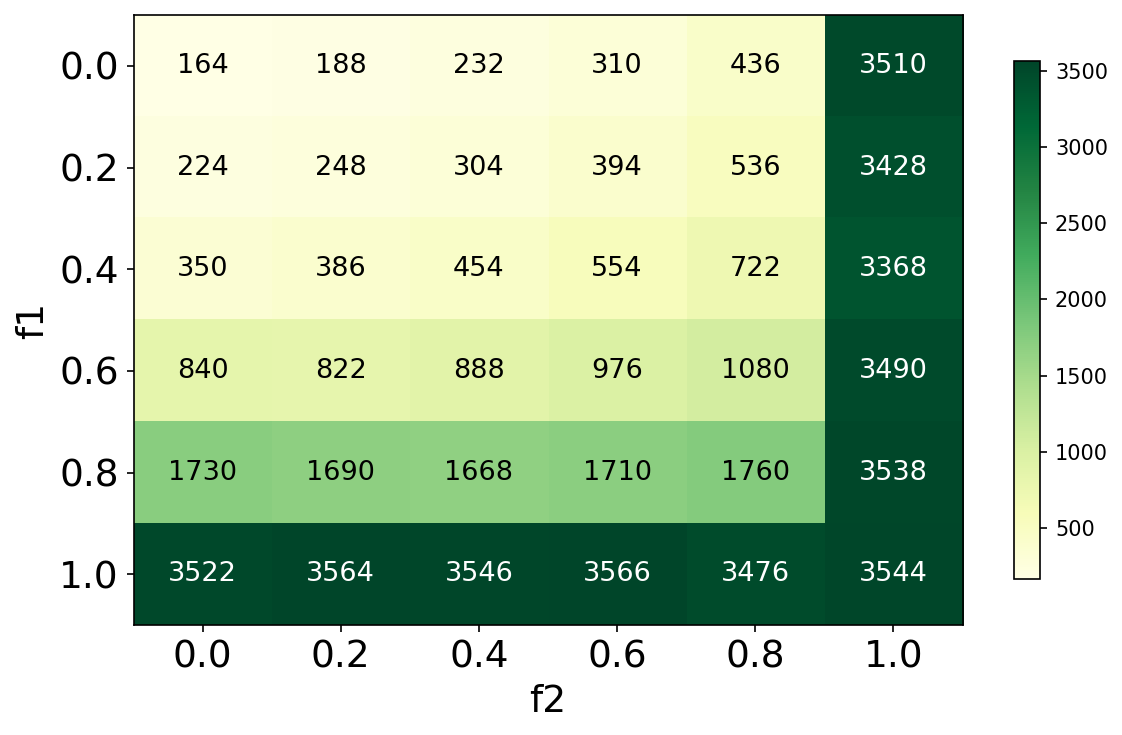
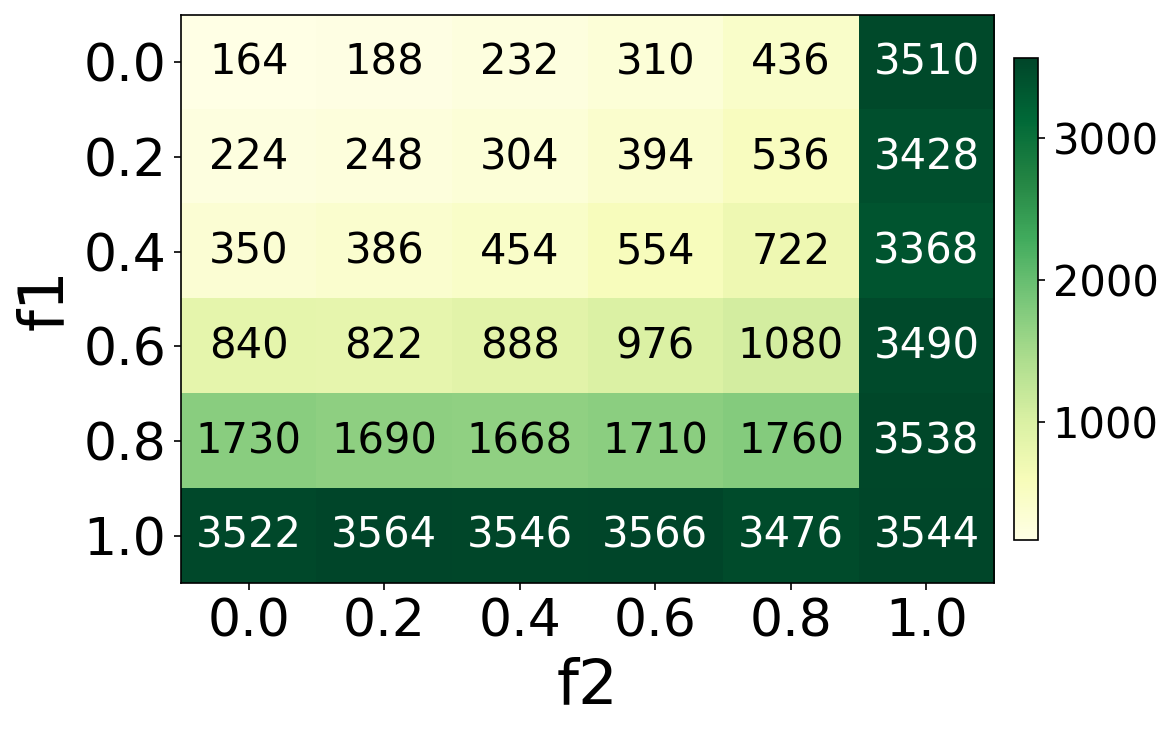
tiered

diff --git a/code/vllm/tiered_prefix_sharing_logs/plot.py b/code/vllm/tiered_prefix_sharing_logs/plot.py
@@ -67,11 +67,11 @@ def draw_heatmap(mat, title, fmt, cmap, outfile):
     im = ax.imshow(mat, aspect="auto", cmap=cmap,
                    vmin=np.nanmin(mat), vmax=np.nanmax(mat))
     ax.set_xticks(range(len(f2s)))
-    ax.set_xticklabels(f2s, fontsize=18)
+    ax.set_xticklabels(f2s, fontsize=25)
     ax.set_yticks(range(len(f1s)))
-    ax.set_yticklabels(f1s, fontsize=18)
-    ax.set_xlabel("f2", fontsize=18)
-    ax.set_ylabel("f1", fontsize=18)
+    ax.set_yticklabels(f1s, fontsize=25)
+    ax.set_xlabel("f2", fontsize=30)
+    ax.set_ylabel("f1", fontsize=30)
 
     for i in range(mat.shape[0]):
         for j in range(mat.shape[1]):
@@ -80,9 +80,9 @@ def draw_heatmap(mat, title, fmt, cmap, outfile):
                 norm_v = (v - np.nanmin(mat)) / (np.nanmax(mat) - np.nanmin(mat) + 1e-9)
                 txt_color = "white" if norm_v > 0.55 else "black"
                 ax.text(j, i, fmt(v), ha="center", va="center",
-                        fontsize=15, color=txt_color, fontweight="500")
-
-    plt.colorbar(im, ax=ax, shrink=0.85)
+                        fontsize=20, color=txt_color, fontweight="500")
+    # change the fontsize in the colour bar
+    plt.colorbar(im, ax=ax, shrink=0.85, pad=0.02).ax.tick_params(labelsize=20)
     plt.tight_layout()
     plt.savefig(outfile, dpi=150, bbox_inches="tight")
     print(f"Saved to {outfile}")
